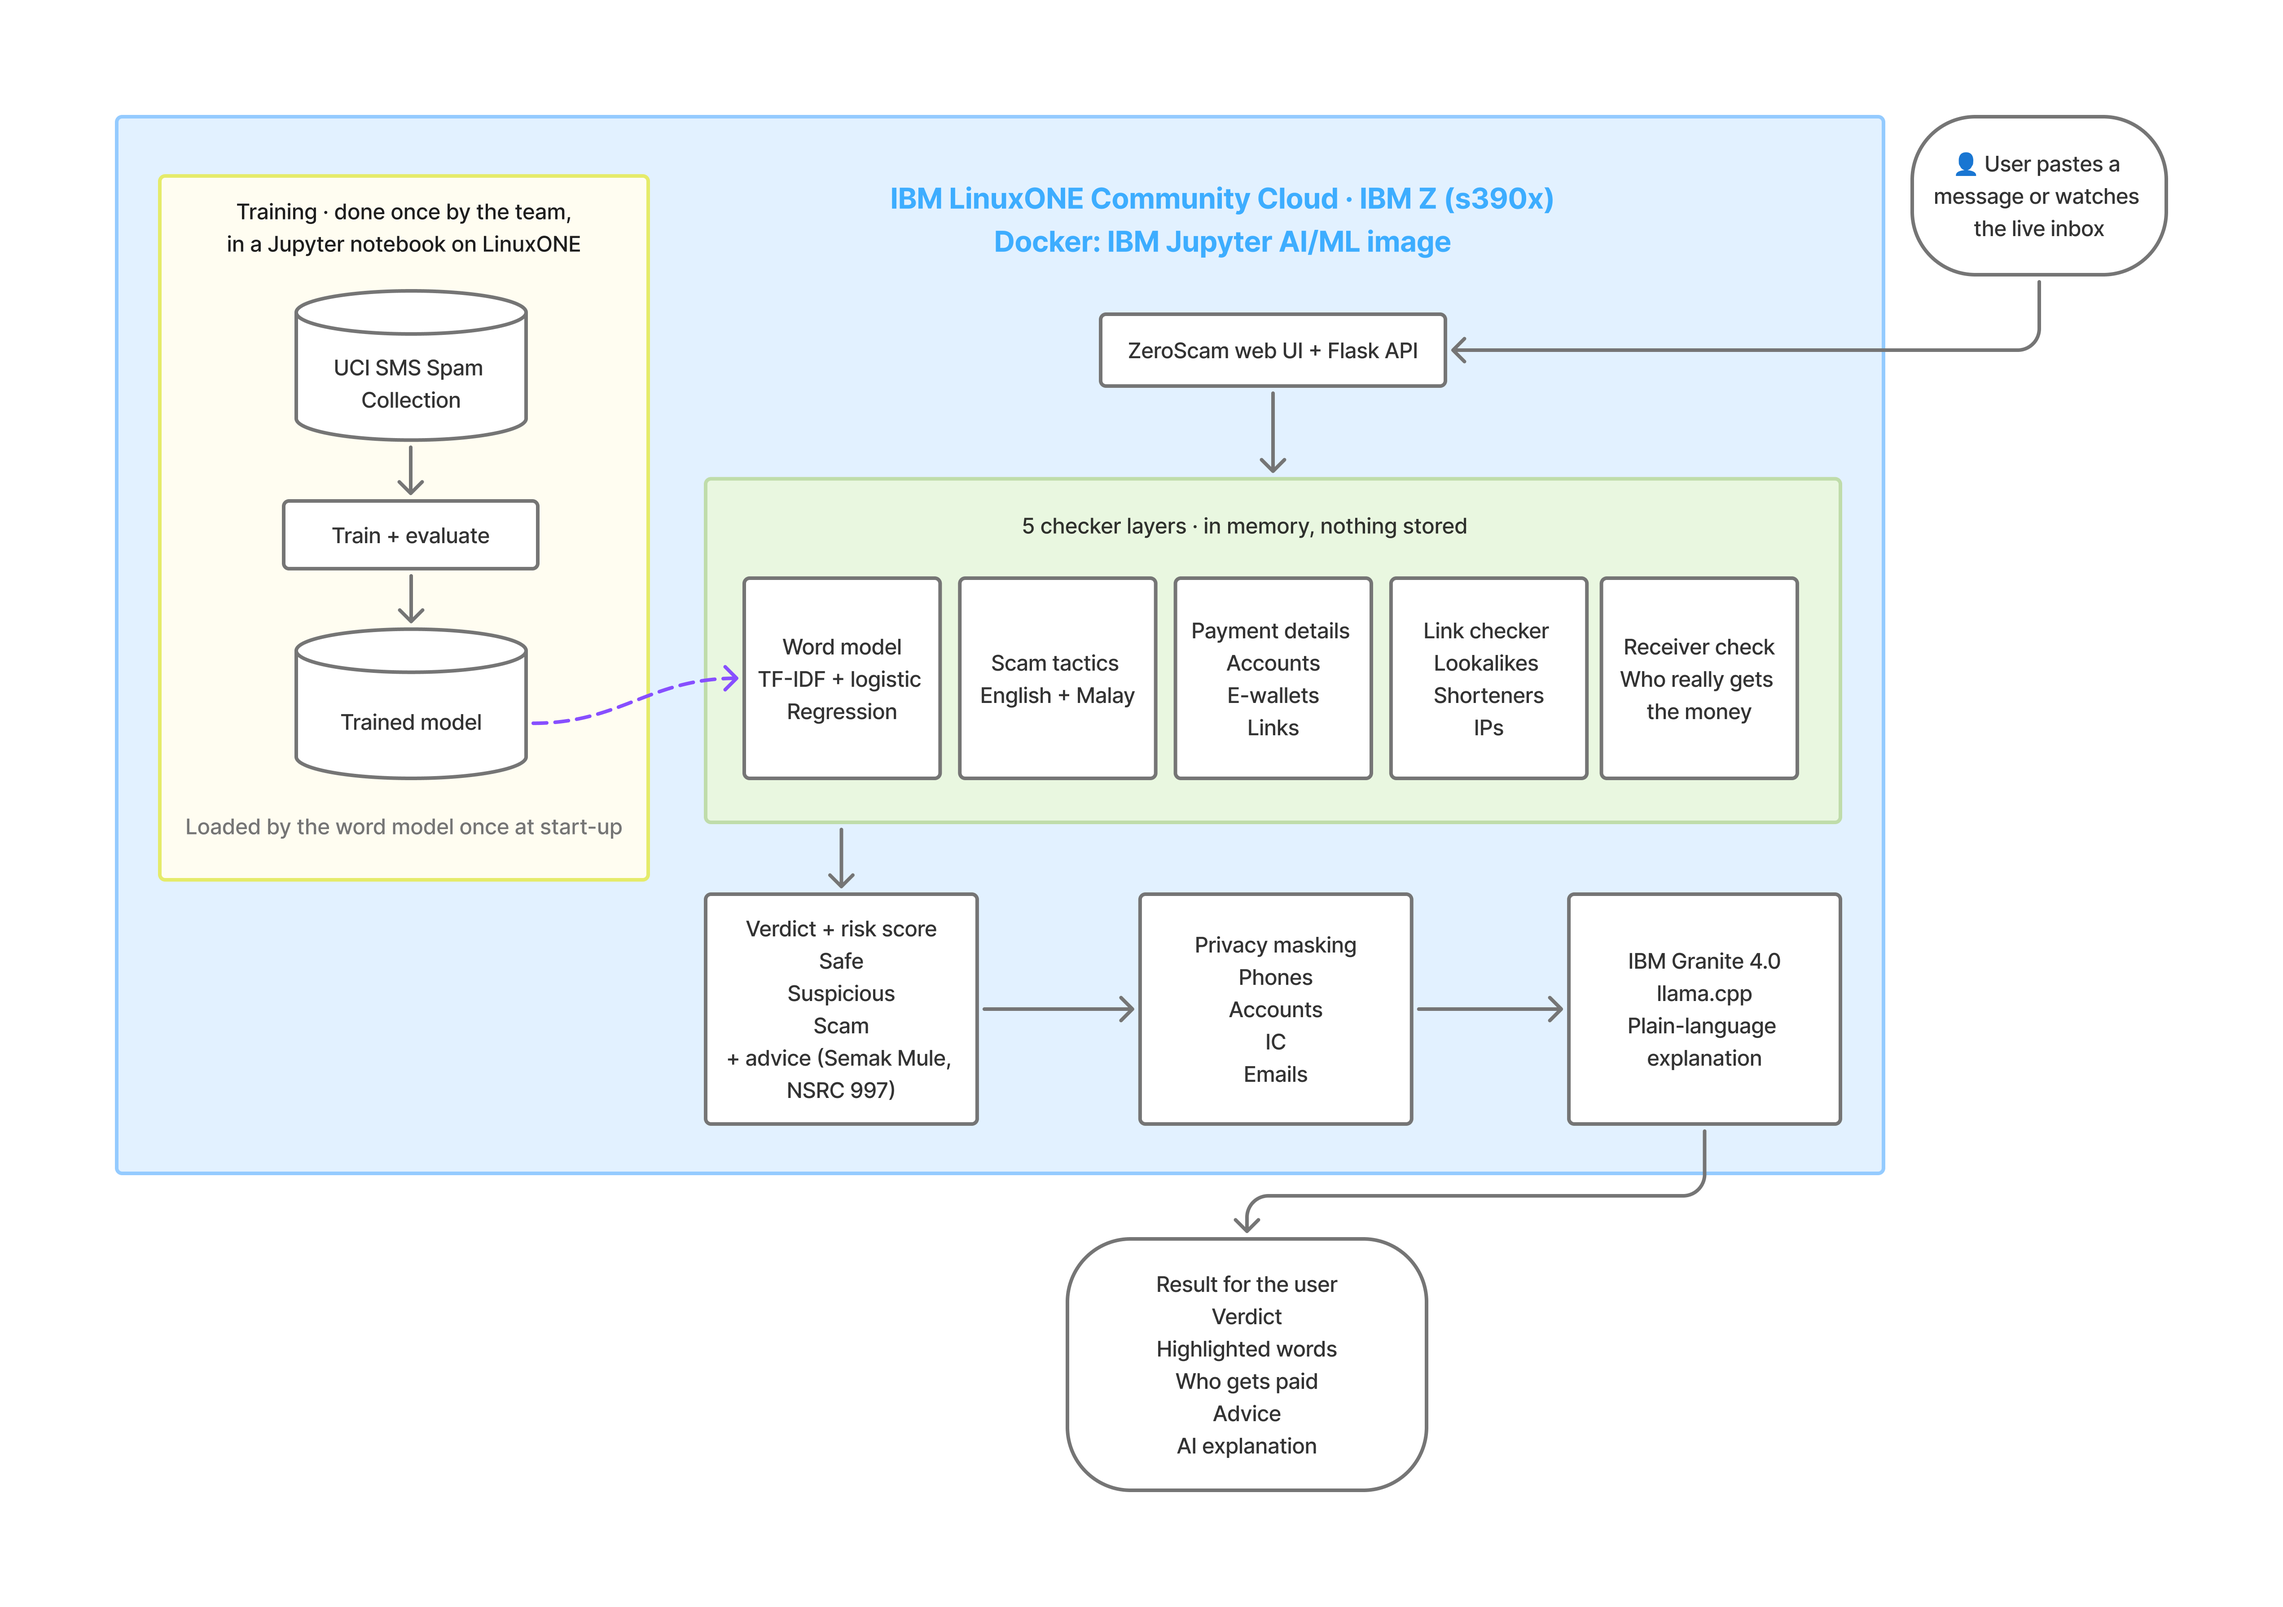
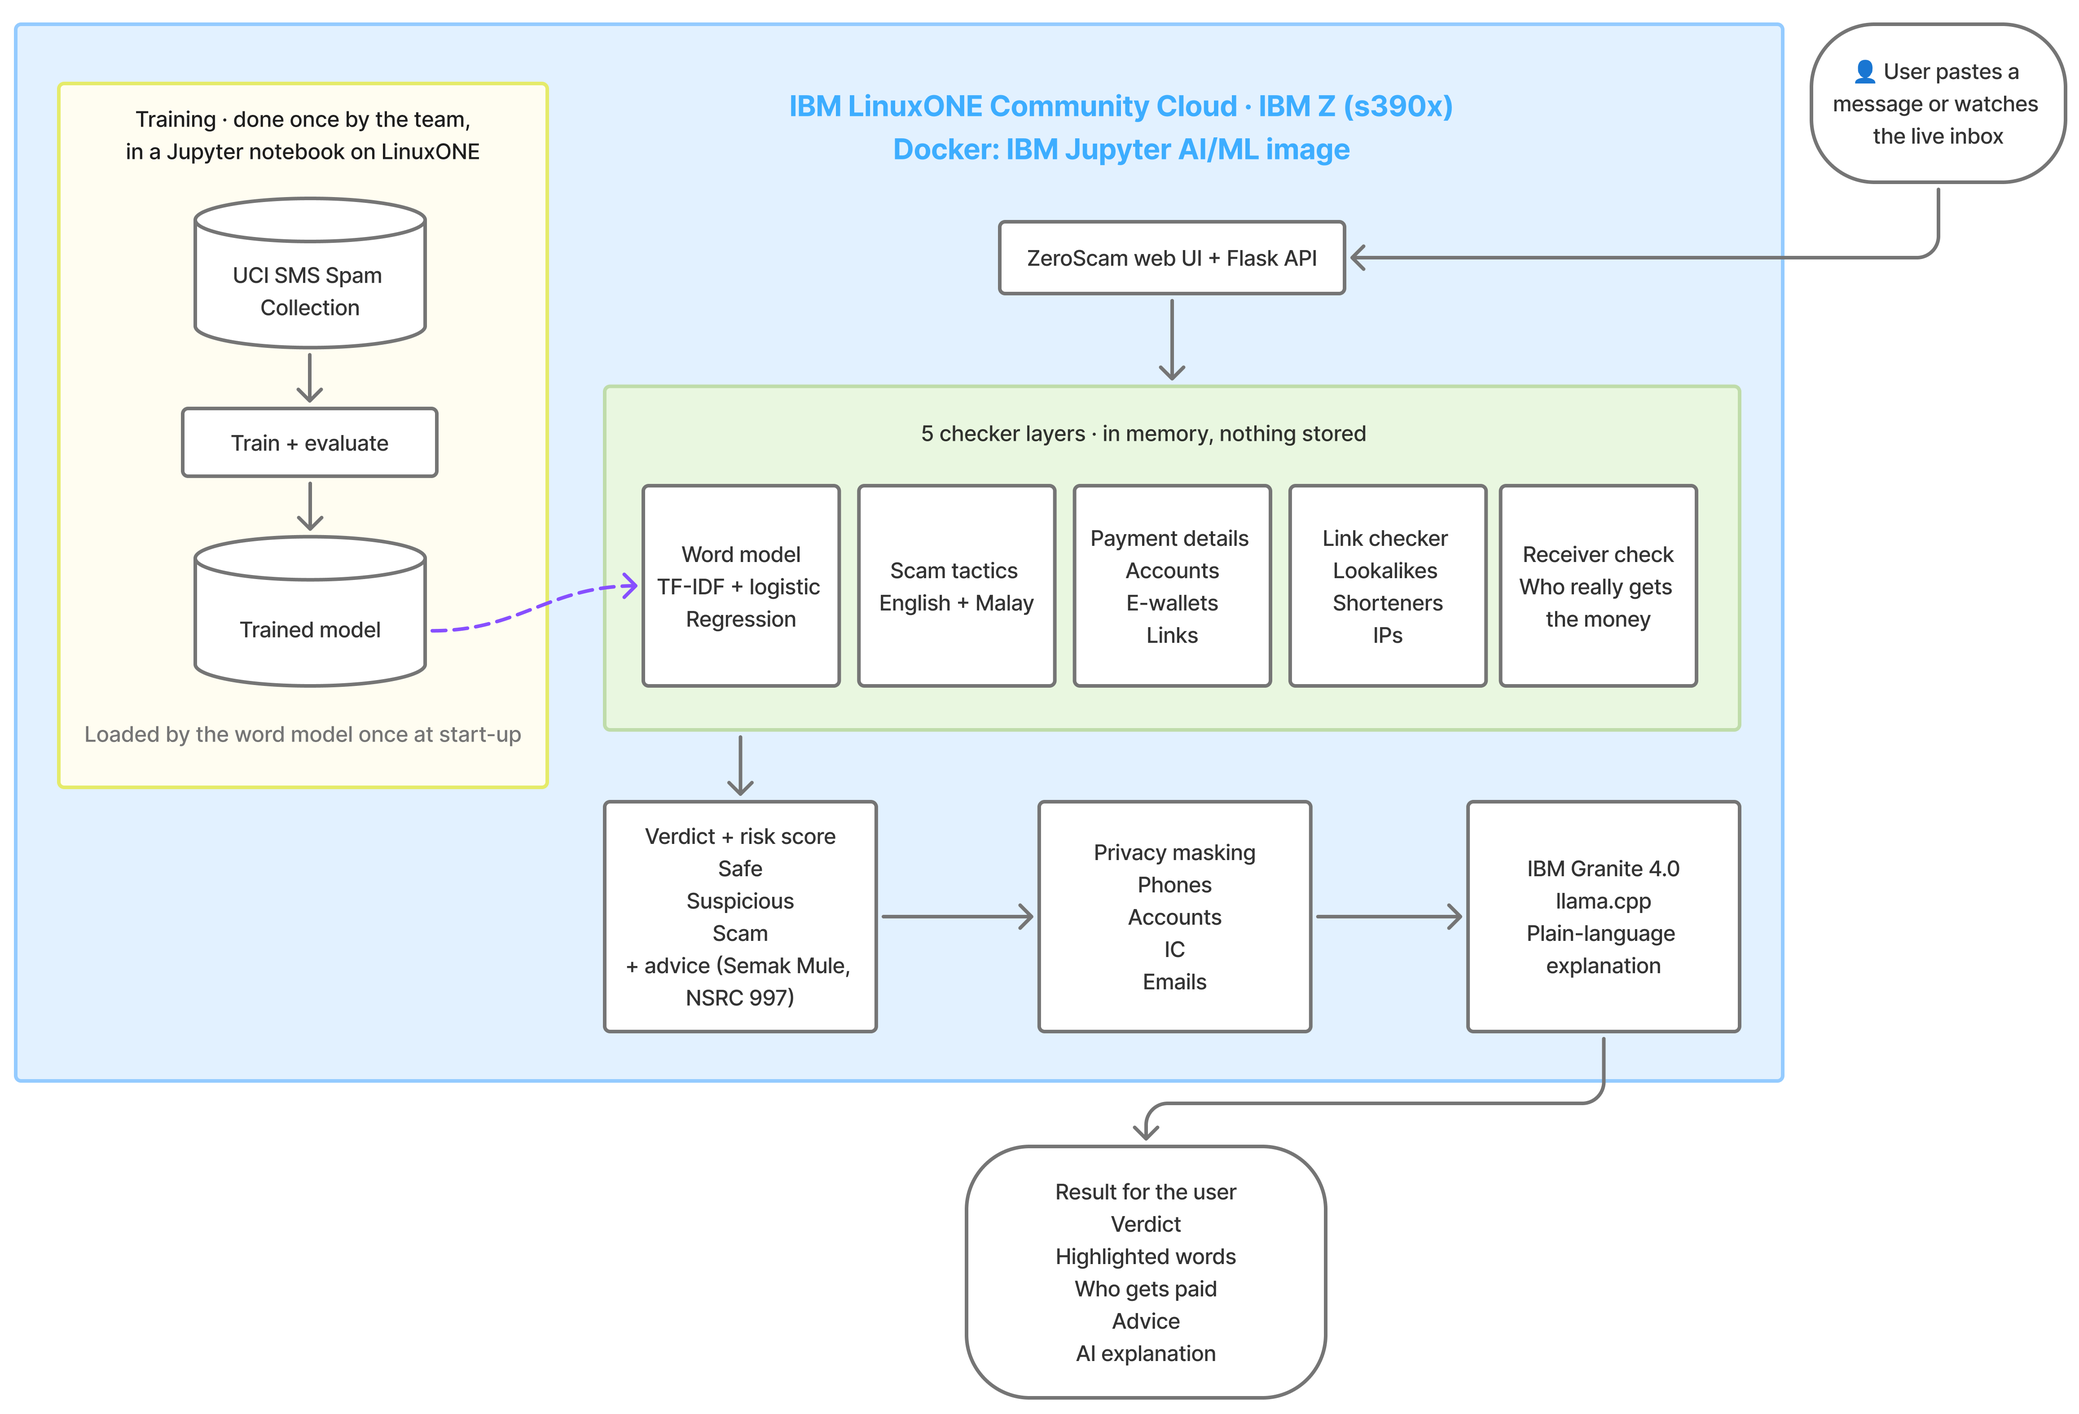
updated README with demo screenshots

Changed region(s): [[0.0, 0.0, 0.995, 0.9644]]

diff --git a/checker/granite.py b/checker/granite.py
@@ -32,6 +32,11 @@ Verdict: suspicious
 Findings: payment request; bank account to pay into
 Explanation: It asks you to pay into an account we cannot verify. Check with the company on a number you trust first.
 
+Message: Limited time only! Our special members get great rewards this week.
+Verdict: suspicious
+Findings: wording similar to known spam messages
+Explanation: Its wording is similar to known spam messages, but it has no links or payment requests. Be careful if the sender asks you for anything later.
+
 Message: Hi mum, I'll be home by 7.
 Verdict: safe
 Findings: none
@@ -98,7 +103,19 @@ def findings_text(result):
                 parts.append(f"the money goes to {r['receiver']}")
             else:
                 parts.append("the receiver of the payment could not be checked")
+    if not parts and result["verdict"] != "safe":
+        # Only the word model raised it: say so, or Granite invents links and payments to explain the verdict
+        return "wording similar to known spam messages"
     return "; ".join(parts) or "none"
+
+
+def grounding(result):
+    """What the message really contains, so answers that mention anything else can be dropped."""
+    layers = result["layers"]
+    has_link = bool(layers["links"]["links"] or layers["payments"]["payment_links"])
+    has_payment = bool(layers["payments"]["flags"] or layers["receivers"]
+                       or any(t["id"] == "payment_request" for t in layers["tactics"]))
+    return has_link, has_payment
 
 
 def build_prompt(message, result):
@@ -106,13 +123,30 @@ def build_prompt(message, result):
     return PROMPT.format(message=one_line, verdict=result["verdict"], findings=findings_text(result))
 
 
-def clean(text, verdict):
-    """Keep at most 2 distinct sentences; return None if the answer is unusable."""
+LINK_MENTION = re.compile(r"\b(?:links?|click|clicks|clicking|websites?|urls?)\b")
+PAYMENT_MENTION = re.compile(r"\b(?:pay|pays|paying|paid|payments?|transfers?)\b")
+# "It does not ask for money" / "it has no links" are statements of absence, so they may name what is missing.
+# "Do not click the link" is advice that assumes a link, so it does not count.
+ABSENCE = re.compile(r"\b(?:no|without|never|any)\b|\b(?:does|did|is|has)(?: not|n't)\b")
+
+
+def clean(text, verdict, has_link=True, has_payment=True):
+    """Keep at most 2 distinct sentences; return None if the answer is unusable.
+
+    has_link / has_payment: whether the message really has a link or a payment request. Sentences that
+    mention one that is not there (Granite inventing "Do not click the link") are dropped.
+    """
     sentences, seen = [], []
     for sentence in re.split(r"(?<=[.!?])\s+", text.strip()):
-        words = set(re.findall(r"[a-z]+", sentence.lower()))
+        lowered_sentence = sentence.lower()
+        words = set(re.findall(r"[a-z]+", lowered_sentence))
         if len(words) < 3:
             continue
+        if not ABSENCE.search(lowered_sentence):
+            if not has_link and LINK_MENTION.search(lowered_sentence):
+                continue
+            if not has_payment and PAYMENT_MENTION.search(lowered_sentence):
+                continue
         # Skip a sentence that mostly repeats an earlier one ("This is a scam. The message is a scam.")
         if any(len(words & w) / len(words | w) >= 0.5 for w in seen):
             continue
@@ -176,7 +210,7 @@ def explain(message, result, model=None):
                 stop=["\n", "Message:", "Verdict:"],
             )
         raw = out["choices"][0]["text"]
-        text = clean(raw, result["verdict"])
+        text = clean(raw, result["verdict"], *grounding(result))
         if DEBUG:
             print(f"granite debug: attempt {attempt}, {time.time() - started:.1f} s, raw answer: {raw!r}", file=sys.stderr, flush=True)
         if text:

diff --git a/README.md b/README.md
@@ -81,13 +81,28 @@ Measured on the held-out test set of the SMS Spam Collection (1,035 messages: 90
 
 ## Screenshots
 
-> 📸 **Screenshot placeholder:** checker page on the VM, Malay scam message → Scam, with highlighted words and the Granite explanation
+**Malay scam → Likely scam**, with the risky words highlighted, the reasons, advice and IBM Granite's explanation:
 
-> 📸 **Screenshot placeholder:** swapped-payee bill → Suspicious, "Payment goes to Ahmad Enterprise" while the message claims Syarikat Elektrik Contoh
+![Malay scam message checked by ZeroScam](docs/screenshot-1.png)
 
-> 📸 **Screenshot placeholder:** live inbox demo on the VM next to the Jupyter terminal showing each `POST /api/check`
+**Bill with a swapped payee → Suspicious.** The message claims to be from Syarikat Elektrik Contoh, but the
+receiver check reads the payment page and finds the money goes to Ahmad Enterprise:
 
-> 📸 **Screenshot placeholder:** dashboard, "The scam landscape"
+![Swapped-payee bill checked by ZeroScam](docs/screenshot-2.png)
+
+**Live inbox demo:** messages arrive one by one and each is checked as it comes in; click one for the details:
+
+![Live inbox demo](docs/screenshot-3.png)
+
+**Running on IBM LinuxONE:** the app at the VM's address (left) and the Jupyter terminal on the same VM (right),
+logging every `POST /api/check` and `POST /api/explain` request as it is answered:
+
+![ZeroScam and its server log on IBM LinuxONE](docs/screenshot-5.png)
+
+**Dashboard, "The scam landscape":** our measured results, scam losses worldwide, and the top scam words the
+model learned:
+
+![ZeroScam dashboard](docs/screenshot-4.png)
 
 ## How to run
 
